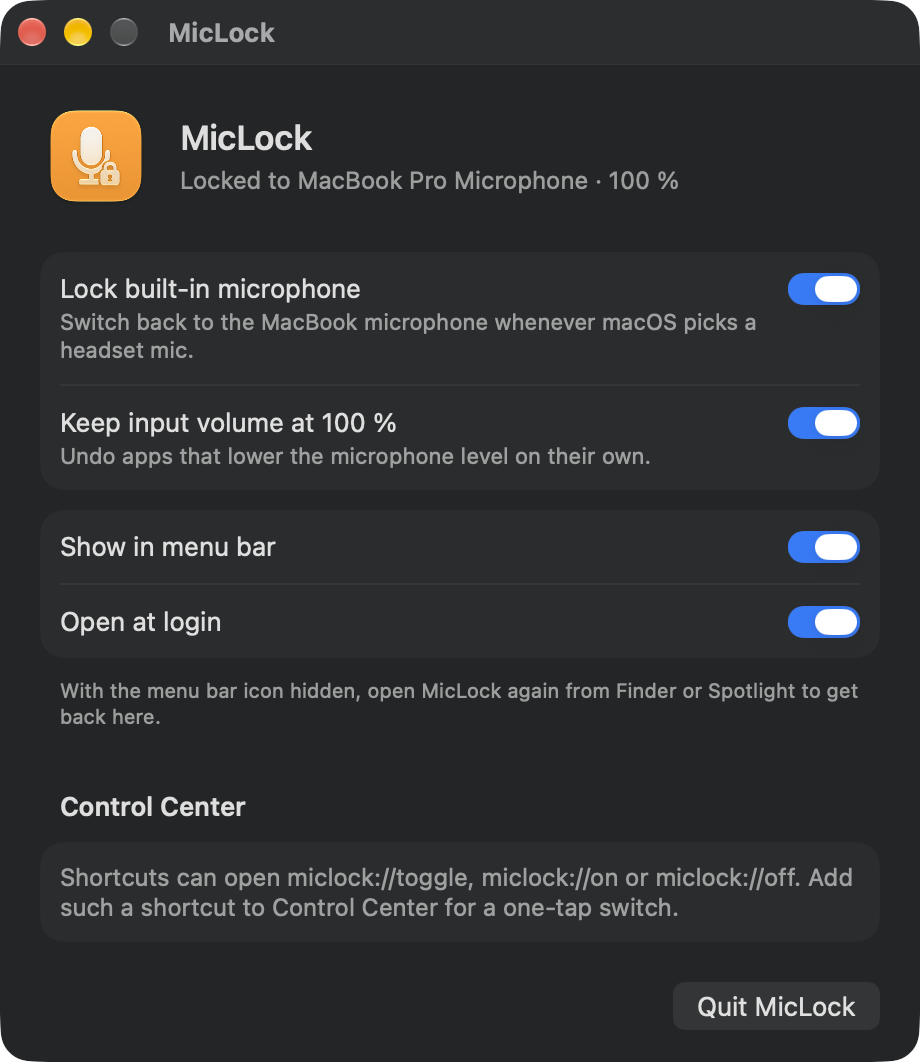
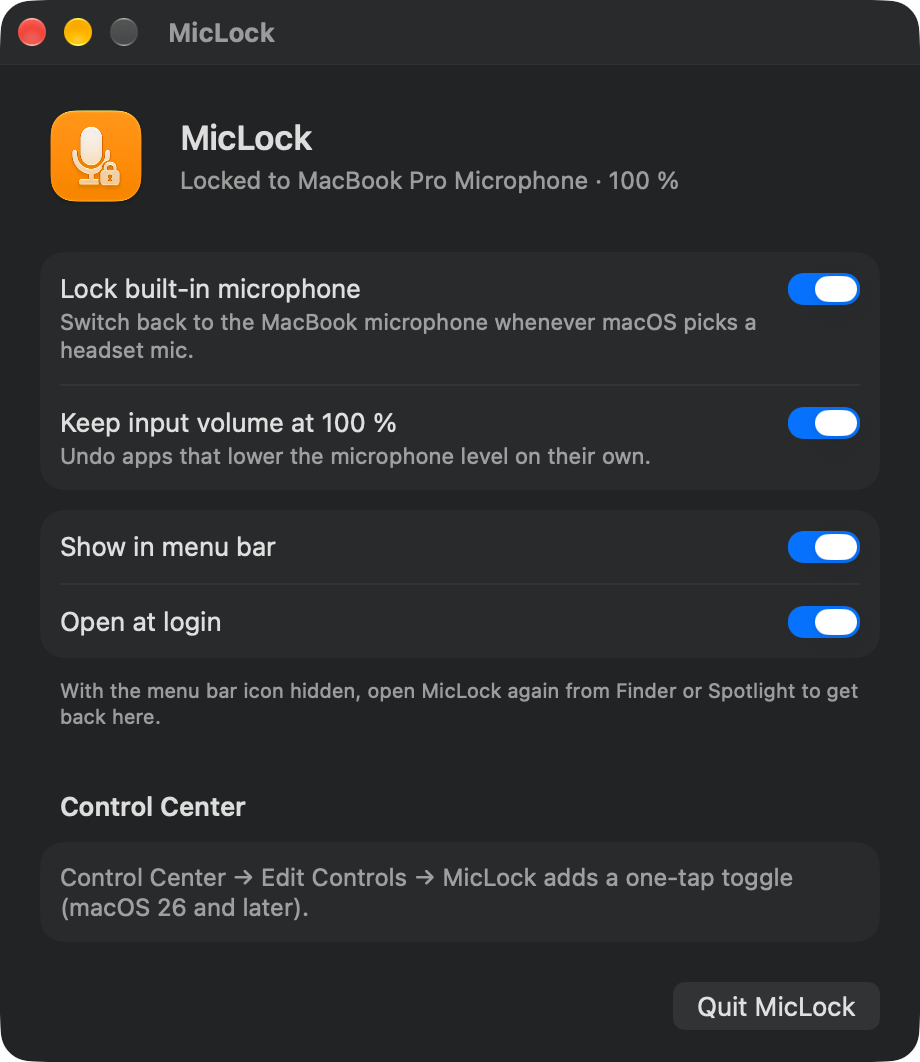
Add Control Center toggle with mic + padlock symbols, drop the HUD
Native ControlWidgetToggle (macOS 26+) in a sandboxed widget extension; it shares
the app's defaults and wakes it with a Darwin notification. Build number now grows
on every build so Control Center refreshes the control.

diff --git a/main.swift b/main.swift
@@ -3,12 +3,15 @@
 // headphones into the low-quality headset profile); MicLock switches straight back.
 //
 // Lives in the menu bar; the icon can be hidden in Settings, and opening the app again
-// (Finder, Spotlight, Launchpad) brings the Settings window back. miclock://toggle, on, off
-// switch the lock from Shortcuts / Control Center.
+// (Finder, Spotlight, Launchpad) brings the Settings window back. On macOS 26+ a Control
+// Center toggle (widget/, embedded as a WidgetKit extension) switches the lock;
+// miclock://toggle, on, off do the same from scripts.
 import AppKit
 import CoreAudio
 import ServiceManagement
 import SwiftUI
+import WidgetKit
+import notify
 
 // MARK: - CoreAudio
 
@@ -118,6 +121,12 @@ final class Model: ObservableObject {
     }
 
     private func save(_ key: String, _ value: Bool) { defaults.set(value, forKey: key) }
+
+    func reloadLockFromDefaults() {
+        defaults.synchronize()
+        let stored = defaults.object(forKey: "enabled") as? Bool ?? true
+        if stored != lockEnabled { lockEnabled = stored }
+    }
 }
 
 // MARK: - App
@@ -131,8 +140,6 @@ final class Controller: NSObject, NSApplicationDelegate, NSMenuDelegate, NSWindo
     var watchedMic: AudioObjectID?
     var displaced: AudioObjectID?  // input MicLock replaced, handed back when the lock goes off
     var enforcePending = false
-    var hud: NSPanel?
-    var hudTimer: Timer?
     var launchedAtLogin = false
 
     func applicationWillFinishLaunching(_ note: Notification) {
@@ -159,6 +166,11 @@ final class Controller: NSObject, NSApplicationDelegate, NSMenuDelegate, NSWindo
             self, selector: #selector(showSettings), name: Controller.showSettingsNote, object: nil)
 
         model.controller = self
+        // The Control Center toggle writes "enabled" into our defaults and posts this.
+        var token: Int32 = 0
+        notify_register_dispatch("org.anybyte.miclock.changed", &token, .main) { [weak self] _ in
+            self?.model.reloadLockFromDefaults()
+        }
         for selector in [kAudioHardwarePropertyDefaultInputDevice, kAudioHardwarePropertyDevices] {
             var addr = address(selector)
             AudioObjectAddPropertyListenerBlock(systemObject, &addr, .main) { [weak self] _, _ in self?.scheduleEnforce() }
@@ -183,6 +195,9 @@ final class Controller: NSObject, NSApplicationDelegate, NSMenuDelegate, NSWindo
     func lockChanged() {
         if model.lockEnabled { enforce() } else { restoreExternalInput() }
         updateStatusItem()
+        if #available(macOS 26.0, *) {
+            ControlCenter.shared.reloadControls(ofKind: "org.anybyte.miclock.control")
+        }
     }
 
     // CoreAudio fires several notifications per device change (a Bluetooth connect sends a burst).
@@ -246,7 +261,7 @@ final class Controller: NSObject, NSApplicationDelegate, NSMenuDelegate, NSWindo
         if model.currentVolume != volume { model.currentVolume = volume }
     }
 
-    // MARK: URL scheme (Shortcuts, Control Center)
+    // MARK: URL scheme (scripts, Shortcuts)
 
     @objc func handleURL(_ event: NSAppleEventDescriptor, _ reply: NSAppleEventDescriptor) {
         guard let string = event.paramDescriptor(forKeyword: keyDirectObject)?.stringValue,
@@ -257,44 +272,6 @@ final class Controller: NSObject, NSApplicationDelegate, NSMenuDelegate, NSWindo
         case "toggle": model.lockEnabled.toggle()
         case "settings": showSettings(); return
         default: return
-        }
-        showHUD()
-    }
-
-    // Small icon-only pill under the right end of the menu bar, where the Shortcuts run
-    // indicator appears: Control Center shortcut tiles can't show state themselves.
-    func showHUD() {
-        hud?.orderOut(nil)
-        let size = NSSize(width: 44, height: 30)
-        let panel = NSPanel(contentRect: NSRect(origin: .zero, size: size),
-                            styleMask: [.borderless, .nonactivatingPanel], backing: .buffered, defer: false)
-        panel.level = .statusBar
-        panel.isOpaque = false
-        panel.backgroundColor = .clear
-        panel.hasShadow = true
-        panel.ignoresMouseEvents = true
-        panel.collectionBehavior = [.canJoinAllSpaces, .fullScreenAuxiliary]
-        let background = NSVisualEffectView(frame: NSRect(origin: .zero, size: size))
-        background.material = .hudWindow
-        background.state = .active
-        background.wantsLayer = true
-        background.layer?.cornerRadius = size.height / 2
-        let icon = NSImageView(frame: NSRect(x: 10, y: 4, width: 24, height: 22))
-        icon.image = NSImage(systemSymbolName: model.lockEnabled ? "mic.fill" : "mic.slash.fill",
-                             accessibilityDescription: nil)?
-            .withSymbolConfiguration(.init(pointSize: 15, weight: .semibold))
-        icon.contentTintColor = model.lockEnabled ? .systemGreen : .systemGray
-        background.addSubview(icon)
-        panel.contentView = background
-        if let screen = NSScreen.main {
-            let visible = screen.visibleFrame  // below the menu bar
-            panel.setFrameOrigin(NSPoint(x: visible.maxX - size.width - 12, y: visible.maxY - size.height - 6))
-        }
-        panel.orderFrontRegardless()
-        hud = panel
-        hudTimer?.invalidate()
-        hudTimer = Timer.scheduledTimer(withTimeInterval: 2.0, repeats: false) { [weak self] _ in
-            self?.hud?.orderOut(nil)
         }
     }
 
@@ -424,7 +401,7 @@ struct SettingsView: View {
                         .font(.footnote).foregroundColor(.secondary)
                 }
                 Section {
-                    Text("Shortcuts can open miclock://toggle, miclock://on or miclock://off. Add such a shortcut to Control Center for a one-tap switch.")
+                    Text("Control Center → Edit Controls → MicLock adds a one-tap toggle (macOS 26 and later).")
                         .font(.callout).foregroundColor(.secondary)
                 } header: {
                     Text("Control Center")

diff --git a/widget/make-symbols.swift b/widget/make-symbols.swift
@@ -1,0 +1,66 @@
+import AppKit
+// Stock mic.fill outline at the template's Regular-M size (100 pt), baseline at y = 0, y down.
+let img = NSImage(systemSymbolName: "mic.fill", accessibilityDescription: nil)!.withSymbolConfiguration(.init(pointSize: 100, weight: .regular))!
+let rep = img.representations[0]
+let g = object_getIvar(rep, class_getInstanceVariable(type(of: rep), "_vectorGlyph")!) as! NSObject
+let raw = g.perform(NSSelectorFromString("CGPath"))!.takeUnretainedValue() as! CGPath
+let k = 70.0 / raw.boundingBoxOfPath.width
+var t = CGAffineTransform(a: k, b: 0, c: 0, d: k, tx: 0, ty: -35.25 - raw.boundingBoxOfPath.height * k / 2)
+let mic = raw.copy(using: &t)!
+let micBox = mic.boundingBoxOfPath
+func lock(open: Bool) -> CGPath {
+  let W = 54.0, H = 43.0, bx = 48.0, by = micBox.maxY - H, cx = bx + W / 2, s = 14.0, lift = open ? 8.0 : 0.0
+  let body = CGMutablePath(); body.addRoundedRect(in: CGRect(x: bx, y: by, width: W, height: H), cornerWidth: 7, cornerHeight: 7)
+  let sh = CGMutablePath()
+  sh.move(to: CGPoint(x: cx - s, y: by + 1)); sh.addLine(to: CGPoint(x: cx - s, y: by - 12 - lift))
+  sh.addArc(center: CGPoint(x: cx, y: by - 12 - lift), radius: s, startAngle: .pi, endAngle: 0, clockwise: false)
+  sh.addLine(to: CGPoint(x: cx + s, y: open ? by - 10 : by + 1))
+  let shackle = sh.copy(strokingWithWidth: 8, lineCap: .butt, lineJoin: .round, miterLimit: 4)
+  let hole = CGPath(ellipseIn: CGRect(x: cx - 5, y: by + H / 2 - 6, width: 10, height: 10), transform: nil)
+  return body.subtracting(hole).union(shackle)
+}
+func svg(_ p: CGPath, right: Double) -> String {
+  var d = ""; func f(_ q: CGPoint) -> String { String(format: "%.2f,%.2f", q.x, q.y) }
+  p.applyWithBlock { e in let q = e.pointee.points
+    switch e.pointee.type { case .moveToPoint: d += "M\(f(q[0]))"; case .addLineToPoint: d += "L\(f(q[0]))"
+    case .addQuadCurveToPoint: d += "Q\(f(q[0])) \(f(q[1]))"; case .addCurveToPoint: d += "C\(f(q[0])) \(f(q[1])) \(f(q[2]))"
+    case .closeSubpath: d += "Z"; @unknown default: break } }
+  let L = 1400 + micBox.minX - 4, R = 1400 + right + 4
+  return """
+<?xml version="1.0" encoding="UTF-8"?>
+<!DOCTYPE svg PUBLIC "-//W3C//DTD SVG 1.1//EN" "http://www.w3.org/Graphics/SVG/1.1/DTD/svg11.dtd">
+<!-- Generated by widget/make-symbols.swift: the stock mic.fill outline plus a padlock. -->
+<svg version="1.1" xmlns="http://www.w3.org/2000/svg" width="3300" height="2200">
+ <g id="Notes">
+  <text id="template-version" x="2970" y="2180">Template v.3.0</text>
+ </g>
+ <g id="Guides">
+  <line id="Baseline-S" x1="263" x2="3036" y1="696" y2="696"/>
+  <line id="Capline-S" x1="263" x2="3036" y1="625.541" y2="625.541"/>
+  <line id="Baseline-M" x1="263" x2="3036" y1="1126" y2="1126"/>
+  <line id="Capline-M" x1="263" x2="3036" y1="1055.54" y2="1055.54"/>
+  <line id="Baseline-L" x1="263" x2="3036" y1="1556" y2="1556"/>
+  <line id="Capline-L" x1="263" x2="3036" y1="1485.54" y2="1485.54"/>
+  <line id="left-margin-Regular-M" x1="\(L)" x2="\(L)" y1="1030" y2="1150"/>
+  <line id="right-margin-Regular-M" x1="\(R)" x2="\(R)" y1="1030" y2="1150"/>
+ </g>
+ <g id="Symbols">
+  <g id="Regular-M" transform="matrix(1 0 0 1 1400 1126)">
+   <path d="\(d)"/>
+  </g>
+ </g>
+</svg>
+
+"""
+}
+let dir = CommandLine.arguments[1]
+for (name, open) in [("miclock", false), ("miclock.open", true)] {
+  let l = lock(open: open)
+  let gap = l.copy(strokingWithWidth: 7, lineCap: .round, lineJoin: .round, miterLimit: 4).union(l)
+  // Drop slivers of the stand's arc left over between the gap and the shackle.
+  let cut = CGMutablePath()
+  for part in mic.subtracting(gap).componentsSeparated() where part.boundingBoxOfPath.width * part.boundingBoxOfPath.height > 60 { cut.addPath(part) }
+  let shape = cut.union(l)
+  try! svg(shape, right: shape.boundingBoxOfPath.maxX).write(toFile: "\(dir)/\(name).symbolset/\(name).svg", atomically: true, encoding: .utf8)
+  print(name, shape.boundingBoxOfPath)
+}

diff --git a/widget/Widget.swift b/widget/Widget.swift
@@ -1,0 +1,54 @@
+// MicLock's Control Center toggle (macOS 26+), a WidgetKit extension embedded in MicLock.app.
+// The extension is sandboxed; it shares state with the app through the app's own defaults
+// domain (temporary-exception.shared-preference entitlement, no App Group, so no developer
+// team is needed) and wakes the app with a Darwin notification.
+import AppIntents
+import Foundation
+import notify
+import SwiftUI
+import WidgetKit
+
+let appDefaults = UserDefaults(suiteName: "org.anybyte.miclock")
+let changedNotification = "org.anybyte.miclock.changed"
+
+func lockEnabled() -> Bool { appDefaults?.object(forKey: "enabled") as? Bool ?? true }
+
+struct LockValueProvider: ControlValueProvider {
+    var previewValue: Bool { true }
+    func currentValue() async throws -> Bool { lockEnabled() }
+}
+
+struct SetLockIntent: SetValueIntent {
+    static let title: LocalizedStringResource = "Lock Built-in Microphone"
+    static let isDiscoverable = false
+
+    @Parameter(title: "Locked")
+    var value: Bool
+
+    init() {}
+
+    func perform() async throws -> some IntentResult {
+        appDefaults?.set(value, forKey: "enabled")
+        appDefaults?.synchronize()
+        notify_post(changedNotification)
+        return .result()
+    }
+}
+
+struct MicLockControl: ControlWidget {
+    var body: some ControlWidgetConfiguration {
+        StaticControlConfiguration(kind: "org.anybyte.miclock.control", provider: LockValueProvider()) { isOn in
+            ControlWidgetToggle("Built-in Mic", isOn: isOn, action: SetLockIntent()) { on in
+                Label(on ? "Locked" : "Unlocked", image: on ? "miclock" : "miclock.open")
+            }
+            .tint(.orange)
+        }
+        .displayName("MicLock")
+        .description("Keep the MacBook microphone selected.")
+    }
+}
+
+@main
+struct MicLockWidgets: WidgetBundle {
+    var body: some Widget { MicLockControl() }
+}

diff --git a/README.md b/README.md
@@ -35,7 +35,7 @@ changes it, and puts the input volume back to 100 % whenever something lowers it
 Your headphones keep playing in full quality.
 
 <p align="center">
-  <img src="docs/menu.png" width="320" alt="MicLock menu: current input, lock and volume toggles">
+  <img src="docs/menu.png" width="292" alt="MicLock menu: current input, lock and volume toggles">
 </p>
 
 ## ✨ Features
@@ -46,7 +46,8 @@ Your headphones keep playing in full quality.
 | 🔊 **Input volume at 100 %** | Puts the level back whenever an app or macOS turns it down. Can be turned off separately. |
 | 🔁 **Clean off switch** | Turning the lock off hands the input back to the headset it replaced (or the Bluetooth one), just like macOS would have done. |
 | 🧭 **Menu bar or hidden** | Lives in the menu bar; hide the icon in Settings and open MicLock again from Finder or Spotlight to get the Settings window back. |
-| 🎛 **Control Center switch** | `miclock://toggle`, `miclock://on` and `miclock://off` for Shortcuts; a small indicator under the menu bar shows the new state. |
+| 🎛 **Control Center toggle** | A native control (macOS 26+) that shows whether the lock is on and switches it with one tap. It can also go straight into the menu bar. |
+| ⌨ **Scriptable** | `open -g miclock://on`, `miclock://off` and `miclock://toggle` from scripts or Shortcuts. |
 | 🪶 **Light** | One Swift file, about 13 MB of memory and no CPU while idle in the background. |
 
 <p align="center">
@@ -68,17 +69,15 @@ Your headphones keep playing in full quality.
 
 ## 🎛 Control Center
 
-Control Center can run a shortcut with one tap:
+On macOS 26 and later MicLock ships a native Control Center toggle:
+open Control Center → **Edit Controls** → **MicLock** and drag it into Control Center
+or the menu bar. It shows whether the lock is on and switches it with one tap.
 
-1. In **Shortcuts**, create a shortcut with two actions: **URL** `miclock://toggle`, then **Open URLs**.
-2. Open Control Center → **Edit Controls** → **Shortcuts** and pick it.
-
-Each tap toggles the lock. A green or grey microphone appears for two seconds under the
-right end of the menu bar to show the new state.
+The control talks to the running app, so keep MicLock running (turn on **Open at login**).
 
 ## 🛠 Build from source
 
-Needs the Xcode command line tools (`xcode-select --install`).
+Needs Xcode 26 or later: the Control Center toggle is built against the macOS 26 SDK.
 
 ```sh
 ./build.sh      # build.noindex/MicLock.app, universal arm64 + x86_64
